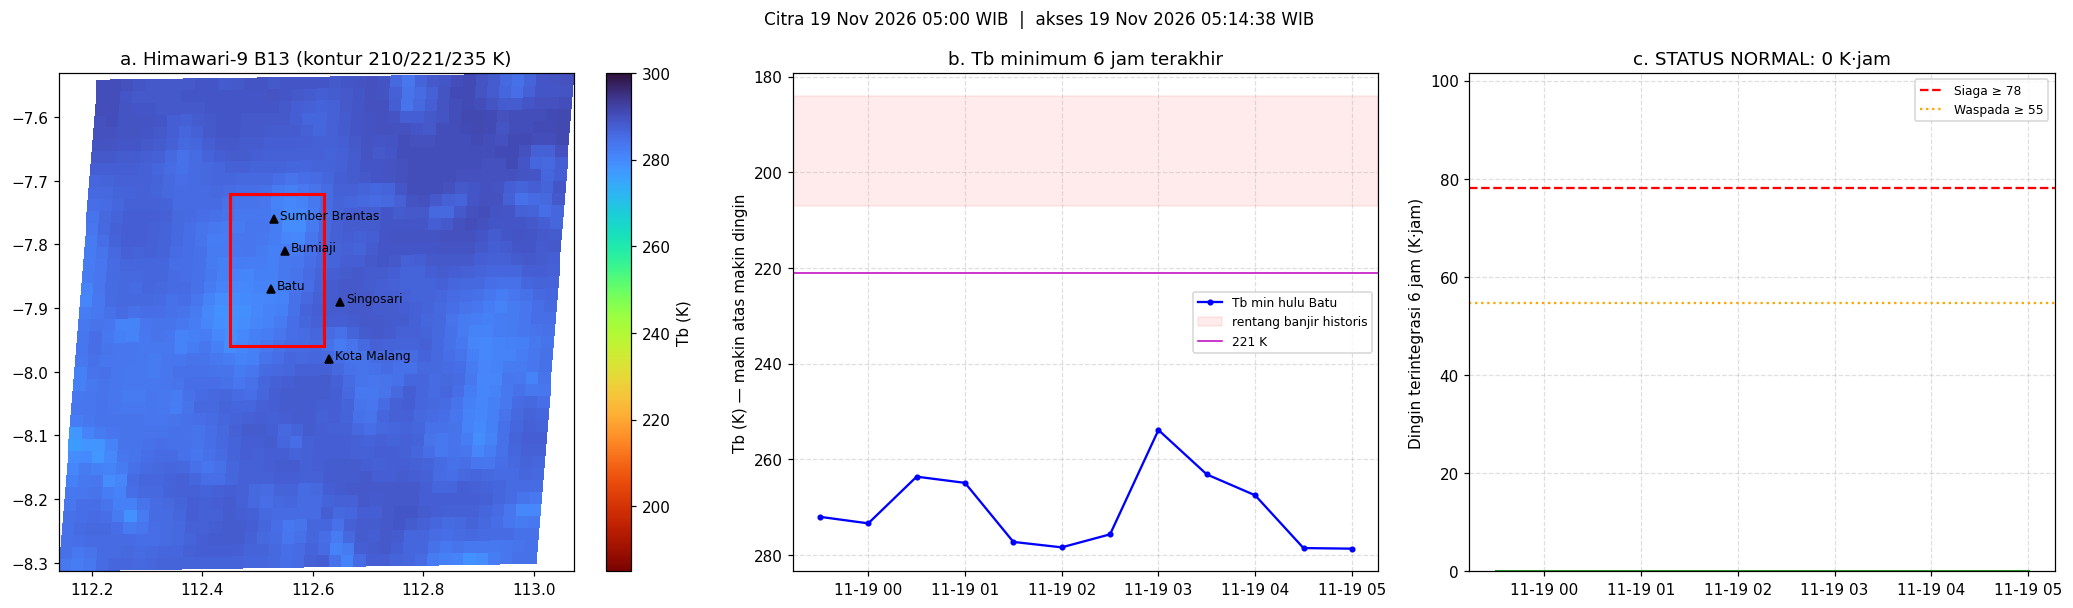
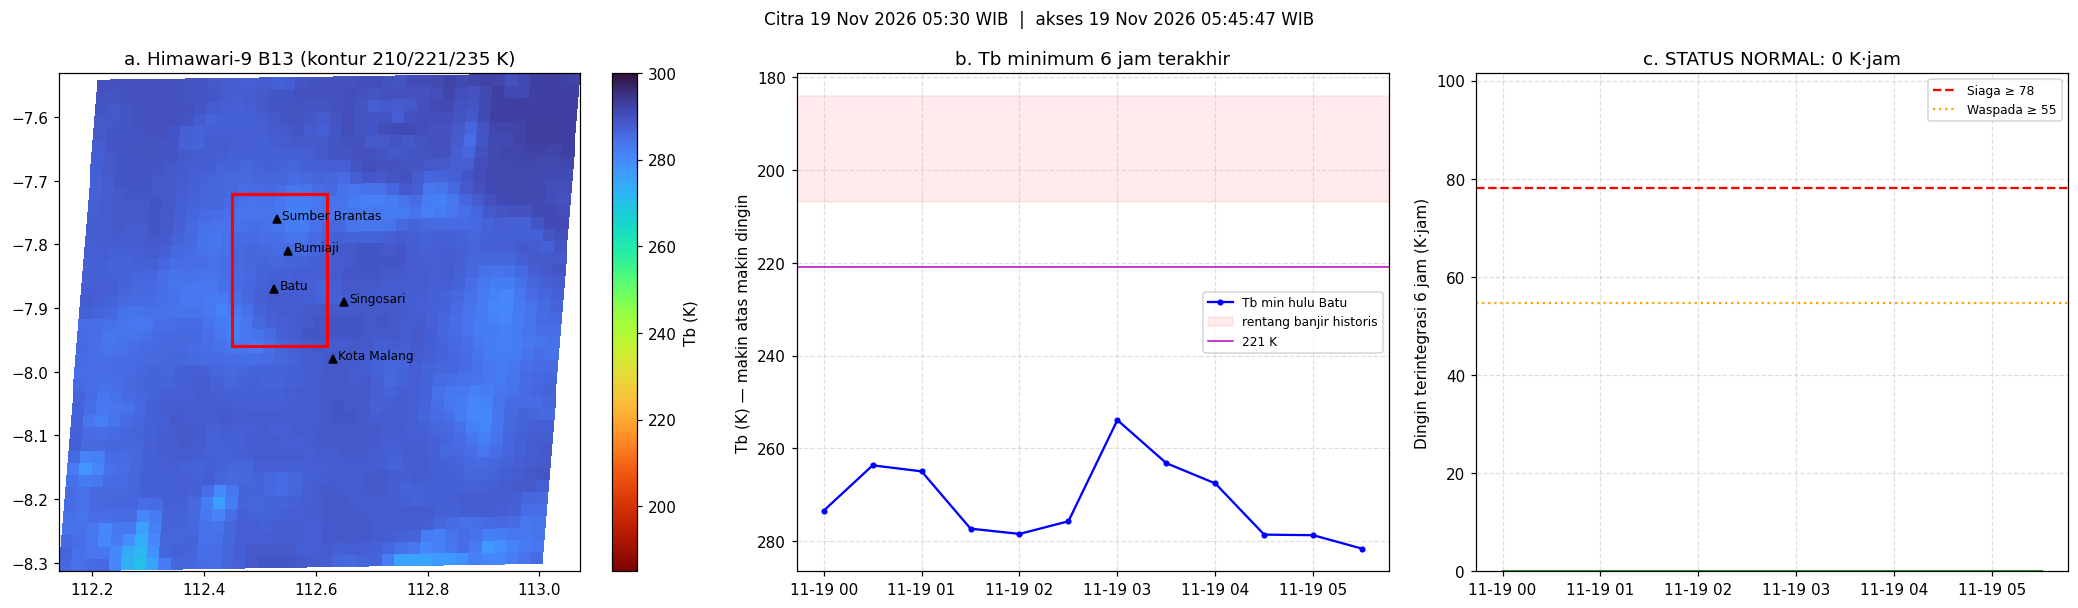
Update pantauan Himawari 2026-11-18 22:46 UTC

diff --git a/output/index.html b/output/index.html
@@ -16,20 +16,20 @@
  <span class="badge">NORMAL</span>
  <div>Dingin terintegrasi 6 jam<br><b>0 K·jam</b></div>
  <div>Ambang<br>Waspada ≥ 55 · Siaga ≥ 78</div>
- <div>Tb min hulu Batu<br><b>279 K</b> (6 °C)</div>
- <div>Citra<br><b>19 Nov 2026 05:00 WIB</b></div>
+ <div>Tb min hulu Batu<br><b>282 K</b> (8 °C)</div>
+ <div>Citra<br><b>19 Nov 2026 05:30 WIB</b></div>
 </div>
-<img src="LATEST_peta_tren.png?v=202611190514" alt="Peta dan tren awan Himawari-9 hulu Batu">
-<pre>Waktu citra : 19 Nov 2026 05:00 WIB
-Waktu run   : 19 Nov 2026 05:14:38 WIB
+<img src="LATEST_peta_tren.png?v=202611190545" alt="Peta dan tren awan Himawari-9 hulu Batu">
+<pre>Waktu citra : 19 Nov 2026 05:30 WIB
+Waktu run   : 19 Nov 2026 05:45:47 WIB
 
 STATUS: NORMAL  —  dingin terintegrasi 6 jam terakhir = 0 K·jam  (Waspada ≥ 55 | Siaga ≥ 78)
   satu jam lalu 0 K·jam → stabil
   ambang: SEL 9d (2026-11-14 08:00 WIB); kinerja pada data validasi POD 0.688, FAR 0.312, TSS 0.521
 
-Awan saat ini (hulu Batu): Tb min 278.7 K (6 °C) → tidak ada awan konvektif; tren 30 menit +0.1 K
+Awan saat ini (hulu Batu): Tb min 281.6 K (8 °C) → tidak ada awan konvektif; tren 30 menit +2.9 K
   luas tertutup awan &lt;235 / &lt;221 / &lt;210 K = 0 / 0 / 0 %
-  Batu 281 K | Bumiaji 282 K | Sumber Brantas 282 K | Singosari 288 K | Kota Malang 286 K
+  Batu 288 K | Bumiaji 286 K | Sumber Brantas 283 K | Singosari 288 K | Kota Malang 288 K
   Hujan GSMaP (s/d 17 Nov 22:00 WIB): 3 jam 0.0 | 24 jam 6.3 | 3 hari 15.0 mm
 
 Arti status: NORMAL = awan dingin belum bertahan lama (hari hujan biasa umumnya di sini);
@@ -38,7 +38,7 @@ Arti status: NORMAL = awan dingin belum bertahan lama (hari hujan biasa umumnya 
   tenggang beberapa jam untuk wilayah hilir (Kota Malang).
 Bukan peringatan dini resmi. Untuk keselamatan ikuti BMKG Jawa Timur &amp; BPBD Kota Batu.</pre>
 <h4>Riwayat 24 pengecekan terakhir</h4>
-<table><tr><th>Waktu citra (WIB)</th><th>Status</th><th>DI (K·jam)</th><th>Tb min (K)</th></tr><tr><td>2026-11-19 05:00</td><td>NORMAL</td><td>0</td><td>279</td></tr><tr><td>2026-11-19 04:30</td><td>NORMAL</td><td>0</td><td>279</td></tr><tr><td>2026-11-19 03:30</td><td>NORMAL</td><td>0</td><td>263</td></tr><tr><td>2026-11-19 02:30</td><td>NORMAL</td><td>0</td><td>276</td></tr><tr><td>2026-11-19 01:30</td><td>NORMAL</td><td>0</td><td>277</td></tr><tr><td>2026-11-19 00:30</td><td>NORMAL</td><td>0</td><td>264</td></tr><tr><td>2026-11-18 23:30</td><td>NORMAL</td><td>9</td><td>272</td></tr><tr><td>2026-11-18 22:30</td><td>NORMAL</td><td>25</td><td>252</td></tr><tr><td>2026-11-18 21:30</td><td>NORMAL</td><td>39</td><td>245</td></tr><tr><td>2026-11-18 21:10</td><td>NORMAL</td><td>46</td><td>243</td></tr><tr><td>2026-11-18 20:30</td><td>NORMAL</td><td>53</td><td>234</td></tr><tr><td>2026-11-18 19:30</td><td>WASPADA</td><td>71</td><td>236</td></tr><tr><td>2026-11-18 18:30</td><td>SIAGA</td><td>88</td><td>215</td></tr><tr><td>2026-11-18 17:30</td><td>SIAGA</td><td>82</td><td>207</td></tr><tr><td>2026-11-18 16:30</td><td>WASPADA</td><td>66</td><td>201</td></tr><tr><td>2026-11-18 15:30</td><td>NORMAL</td><td>51</td><td>208</td></tr><tr><td>2026-11-18 14:30</td><td>NORMAL</td><td>37</td><td>203</td></tr><tr><td>2026-11-18 13:30</td><td>NORMAL</td><td>20</td><td>202</td></tr><tr><td>2026-11-18 12:30</td><td>NORMAL</td><td>3</td><td>220</td></tr><tr><td>2026-11-18 11:30</td><td>NORMAL</td><td>0</td><td>223</td></tr><tr><td>2026-11-18 11:20</td><td>NORMAL</td><td>0</td><td>224</td></tr><tr><td>2026-11-18 10:30</td><td>NORMAL</td><td>0</td><td>247</td></tr><tr><td>2026-11-18 09:30</td><td>NORMAL</td><td>0</td><td>254</td></tr><tr><td>2026-11-18 08:30</td><td>NORMAL</td><td>0</td><td>264</td></tr></table>
+<table><tr><th>Waktu citra (WIB)</th><th>Status</th><th>DI (K·jam)</th><th>Tb min (K)</th></tr><tr><td>2026-11-19 05:30</td><td>NORMAL</td><td>0</td><td>282</td></tr><tr><td>2026-11-19 05:00</td><td>NORMAL</td><td>0</td><td>279</td></tr><tr><td>2026-11-19 04:30</td><td>NORMAL</td><td>0</td><td>279</td></tr><tr><td>2026-11-19 03:30</td><td>NORMAL</td><td>0</td><td>263</td></tr><tr><td>2026-11-19 02:30</td><td>NORMAL</td><td>0</td><td>276</td></tr><tr><td>2026-11-19 01:30</td><td>NORMAL</td><td>0</td><td>277</td></tr><tr><td>2026-11-19 00:30</td><td>NORMAL</td><td>0</td><td>264</td></tr><tr><td>2026-11-18 23:30</td><td>NORMAL</td><td>9</td><td>272</td></tr><tr><td>2026-11-18 22:30</td><td>NORMAL</td><td>25</td><td>252</td></tr><tr><td>2026-11-18 21:30</td><td>NORMAL</td><td>39</td><td>245</td></tr><tr><td>2026-11-18 21:10</td><td>NORMAL</td><td>46</td><td>243</td></tr><tr><td>2026-11-18 20:30</td><td>NORMAL</td><td>53</td><td>234</td></tr><tr><td>2026-11-18 19:30</td><td>WASPADA</td><td>71</td><td>236</td></tr><tr><td>2026-11-18 18:30</td><td>SIAGA</td><td>88</td><td>215</td></tr><tr><td>2026-11-18 17:30</td><td>SIAGA</td><td>82</td><td>207</td></tr><tr><td>2026-11-18 16:30</td><td>WASPADA</td><td>66</td><td>201</td></tr><tr><td>2026-11-18 15:30</td><td>NORMAL</td><td>51</td><td>208</td></tr><tr><td>2026-11-18 14:30</td><td>NORMAL</td><td>37</td><td>203</td></tr><tr><td>2026-11-18 13:30</td><td>NORMAL</td><td>20</td><td>202</td></tr><tr><td>2026-11-18 12:30</td><td>NORMAL</td><td>3</td><td>220</td></tr><tr><td>2026-11-18 11:30</td><td>NORMAL</td><td>0</td><td>223</td></tr><tr><td>2026-11-18 11:20</td><td>NORMAL</td><td>0</td><td>224</td></tr><tr><td>2026-11-18 10:30</td><td>NORMAL</td><td>0</td><td>247</td></tr><tr><td>2026-11-18 09:30</td><td>NORMAL</td><td>0</td><td>254</td></tr></table>
 <p><small>Diperbarui otomatis tiap jam. Indikator penelitian (Universitas Negeri Malang), bukan peringatan dini resmi —
 ikuti BMKG Jawa Timur &amp; BPBD Kota Batu.</small></p>
 </body></html>
